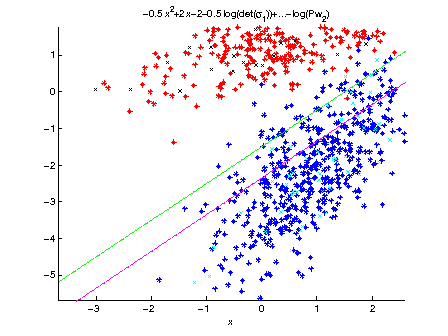
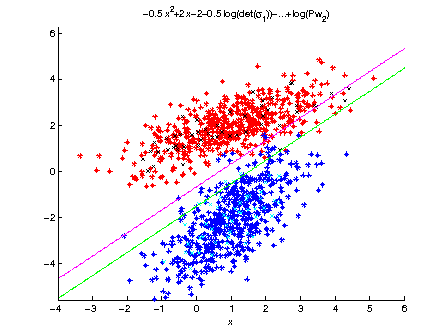
Redoing problem 2 plot

diff --git a/HW2/problem2.m b/HW2/problem2.m
@@ -8,7 +8,7 @@ Pw1 = 0.3;
 Pw2 = 0.7;
 
 maxLikelihoodX = @(x) -0.5 * x^2 + 2 * x - 2 - 0.5*log( det( sigma1 ) ) + 0.5*x^2 - x + 0.5 + 0.5*log( det( sigma2 ) );
-bayesX = @(x) -0.5 * x^2 + 2 * x - 2 - 0.5*log( det( sigma1 ) ) + log(Pw1) + 0.5*x^2 - x + 0.5 + 0.5*log( det( sigma2 ) ) + log(Pw2);
+bayesX = @(x) -0.5 * x^2 + 2 * x - 2 - 0.5*log( det( sigma1 ) ) - log(Pw1) + 0.5*x^2 - x + 0.5 + 0.5*log( det( sigma2 ) ) + log(Pw2);
 
 hold all;
 
@@ -24,9 +24,9 @@ plot( r3(:,1), r3(:,2), 'kx' );
 r4 = mvnrnd( mu2, sigma2, 50 );
 plot( r4(:,1), r4(:,2), 'cx' );
 
-mlplot = ezplot( maxLikelihoodX );
+mlplot = ezplot( maxLikelihoodX, [-4:6] );
 set( mlplot, 'Color', 'g' );
-bplot = ezplot( bayesX );
+bplot = ezplot( bayesX, [-4:6] );
 set( bplot, 'Color', 'm' );
 
 hold off;
